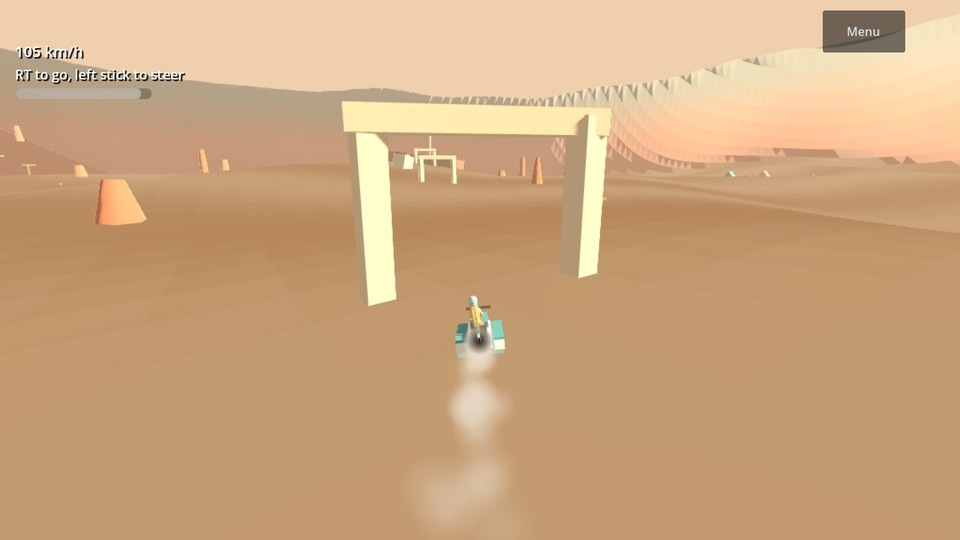
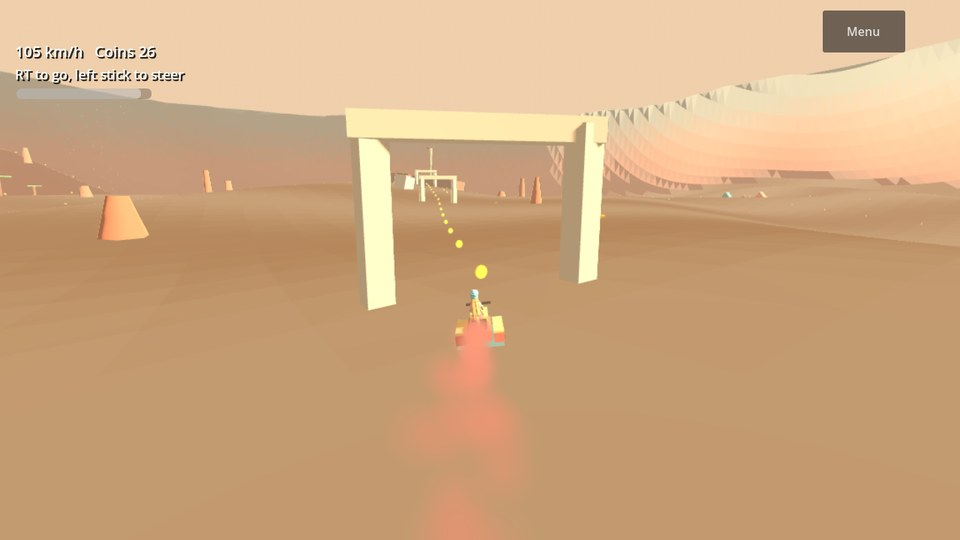
Glasswind card: 0.6.1
Claude-Session: https://claude.ai/code/session_0117TTYDMWhCiD16zmkBafDq

diff --git a/index.html b/index.html
@@ -149,11 +149,11 @@ footer{margin-top:40px;color:var(--soft);font-size:14px;text-align:center}
 </article>
 
 <article class="card" data-repo="glasswind">
-<a class="shot" href="glasswind/"><img src="images/glasswind.jpg?v=0.6.0" alt="Glasswind: the rider on the hover bike boosting toward a stone arch, a trail of sand smoke behind in a sandy desert basin" width="960" height="540" loading="lazy"></a>
+<a class="shot" href="glasswind/"><img src="images/glasswind.jpg?v=0.6.1" alt="Glasswind: the rider boosting on a coral bike through a stone arch, coral smoke behind and a trail of gold coins ahead" width="960" height="540" loading="lazy"></a>
 <div class="body">
 <div class="top"><h2><a href="glasswind/">Glasswind</a></h2><span class="tag">Ride the quiet desert</span></div>
-<p class="desc">Ride a hover bike across a small desert basin full of ruins. Climb old ruins, glide down from the top, ride warm updrafts, collect scrap to upgrade your bike, help the nomads and earn the sigil of who you will become. Nothing can hurt you. Five save slots. Plays with touch, a keyboard or an Xbox controller, held upright or sideways.</p>
-<p class="meta">Browser and Android<span class="ver"> · Version 0.6.0</span> <span class="upd">· Updated <time datetime="2026-11-18T17:49-06:00">Nov 18, 2026, 5:49 PM CT</time></span></p>
+<p class="desc">Ride a hover bike across a small desert basin full of ruins. Climb old ruins, glide down from the top, ride warm updrafts, collect scrap and coins to upgrade and paint your bike, help the nomads and earn the sigil of who you will become. Nothing can hurt you. Five save slots. Plays with touch, a keyboard or an Xbox controller, held upright or sideways.</p>
+<p class="meta">Browser and Android<span class="ver"> · Version 0.6.1</span> <span class="upd">· Updated <time datetime="2026-11-18T18:24-06:00">Nov 18, 2026, 6:24 PM CT</time></span></p>
 <div class="actions"><a class="btn" href="glasswind/">Open game page</a></div>
 </div>
 </article>
